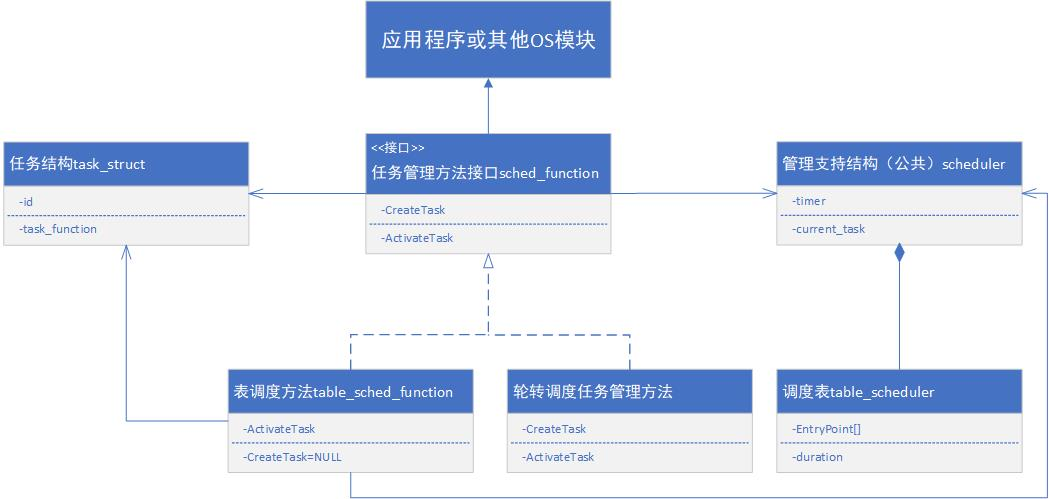
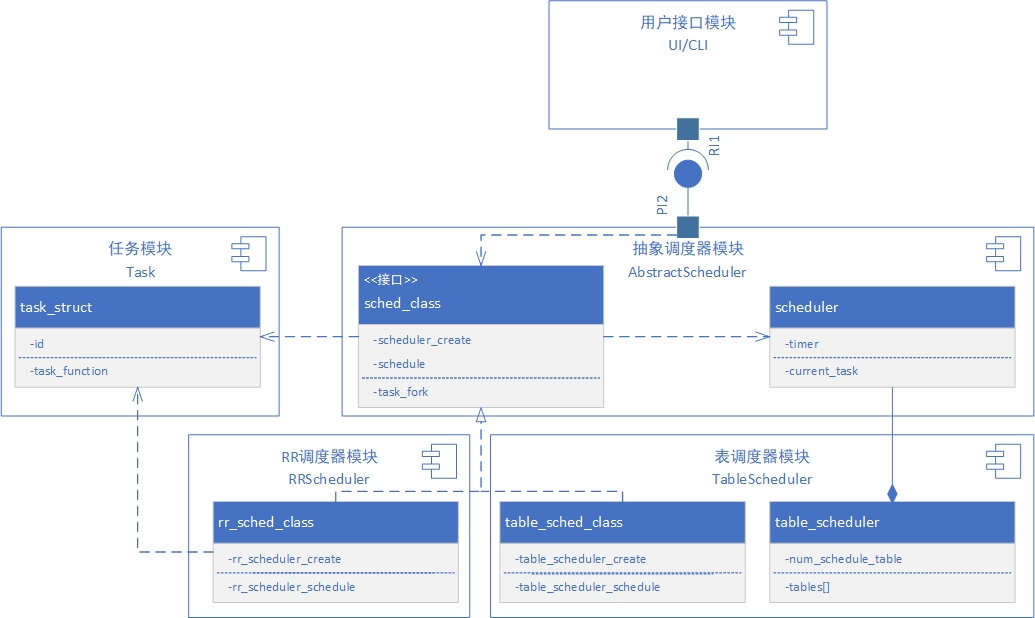
[why] 1. update arch.md       2. add design.md [who] huangyizhi

diff --git a/OS_evolution/Task Schedule/docs/architecture.md b/OS_evolution/Task Schedule/docs/architecture.md
@@ -1,84 +1,55 @@
-### 软件架构设计
-本项目围绕 **AUTOSAR Classic Platform 的任务调度模型** 构建，用于仿真AUTOSAR Classic Platform中任务调度和任务执行流程。
+# 软件架构设计
 
-- 
+## Overview
+本项目围绕 **AUTOSAR Classic Platform 的任务调度模型** 构建，用于仿真AUTOSAR Classic Platform中任务调度和任务执行流程。项目采用模块化设计，其核心逻辑主要由四个关键模块组成：
 
-根据上述逻辑，本项采用模块化设计，其核心逻辑由四个关键模块组成：
+- ✅ 任务模块（Task）
+- ✅ 抽象调度器模块（Abstract Scheduler）
+- ✅ 表调度器模块（Table Scheduler）
+- ✅ 用户接口模块（User Interface）
 
-本小节将讨论任务管理的软件架构设计，它会基于现有AUTOSAR Classic Platform标准，但是，作为仿真器的核心组件，它必须面向通用OS进行扩展设计。首先，对其关键组件的功能以及它们之间的关系进行设计：
+## 模块简介
 
-- 任务管理方法（调度方法）：主要实现任务活动、任务状态、优先级、资源、中断、错误等执行行为。这些行为会根据具体操作系统遵循的规则、所选择的调度策略发生变化。例如，AUTOSAR OS要求设计时静态配置任务，不会在运行时创建新任务，它不会直接向用户或者其他操作系统模块提供诸如fork或者CreateTask类似的函数或方法。相反，很多通用操作系统或者支持动态创建任务的RTOS均提供这类方法。另外，不同调度策略对调度函数的具体函数也不尽相同。因此，需要划分任务管理方法中的不变量和变量，以应对不同更为广泛的情况和需求变化。具体划分为：
-  + 不变量：任务管理方法向外提供的基本功能是不变的。尽管不同OS所支持的任务行为种类不尽相同（或向外的函数名不同）或者底层实现方法不同，但是这些行为通常是互为子集关系且大部分向外部提供的功能表现是基本一致的。
-  + 变量：具体功能数量和底层实现逻辑
-根据上述分析，可利用“接口隔离”原则，实现这些不变量与变量的分离：
-  + 抽象的任务管理接口：设计抽象接口，该接口是任务管理行为各行为的超集。接口用于用户和OS的外部调用。
-  + 具体的任务管理方法：根据自身OS、调度方法设计具体的任务管理方法，然后绑定给接口调用。
+### 1. 任务模块（Task）
 
-- 支持任务管理的结构（调度器结构）：主要为任务管理方法提供数据结构支持。该部分同样存在公共的不变量，例如调度器所依赖的时钟、调度器所在核心等。也同样存在变量，具体调度方法实现所用的数据结构，例如，表调度、FIFO、RR所使用的列表（或队列），完全公平调度用到的红黑树等。这里可以考虑利用组合或继承进行实现。
+* 描述任务的基本属性，如周期、偏移、类型（周期/单发）、优先级等
+* 支持任务调度状态更新（激活/运行/完成）
+* 可扩展为支持资源依赖、事件触发等高级模型
 
-- 管理对象（任务）：任务结构实际上也会根据OS的情况存在具体差异，但是对于设计模拟器来说是基本不变的，因此，这里不做过多抽象隔离设计。
+### 2. 抽象调度器模块（AbstractScheduler）
+抽象调度器模块用于处理任务管理中的不变量，一方面为上层的软件提供统一的调度方法接口定义，另一方面用于描述任务调度的行为。具体作用如下：
 
-总之，如图3所示，其基本关系可以确定为：
-- 具体任务管理方法与具体管理结构、管理对象对应，但依赖的是抽象。
-- 抽象任务管理方法与抽象管理结构、管理对象对应。
-- 外部调用抽象任务管理方法
+* 作为所有调度器的基类，定义统一的调度接口
+* 提供调度器生命周期管理（初始化、启动、终止）
+* 保持调度器（不同调度算法的调度器）之间的可替换性
+
+### 3. 表调度器模块（TableScheduler）
+符合AUTOSAR Classic 平台规定的调度器实现，具体特性为：
+
+* 实现时间驱动调度（Time-Triggered Scheduling）
+
+* 支持多个调度表的管理、切换与执行
+
+* 每个调度表包括一系列任务启动事件（时间戳 -> 任务）
+
+###  4. 用户接口模块（UI/CLI）
+仿真器的用户接口，提供UI界面或者CLI方式启动仿真，具体特性为：
+
+* 加载任务与调度表配置（如 ARXML或其他格式）
+* 提供命令行入口或图形界面入口
+* 控制调度过程（如执行步进、重置仿真、导出调度结果）
+* 提供调度结果的图形和数据输出
+* 提供对输出结果的分析
+
+## 模块间的交互示意
+图1展示了软件模块之间的关系。
+
+* 用户接口模块：仅与抽象调度器模块交互。通过调用由抽象调度器模块提供的接口实现用户仿真功能。
+* 抽象调度器模块：向上为用户接口模块提供任务管理相关接口，向下定义调度器属性和行为的通用抽象。采用调度器和调度方法的分离设计，其中调度器类定义描述通用调度器的属性，调度方法类定义统一任务管理行为和接口。调度方法会依赖（Dependency）于调度器类。
+* 具体调度器模块：调度器的具体实现。具体调度器类定义相关调度器实现的属性描述，除去定义特殊属性还会通过组合（Composition）抽象调度器获取通用属性。具体调度方法类用于实现具体调度器的相关方法，是通用调度器方法的具体实现（implements）。具体调度方法通过抽象调度方法调用具体调度器类。
+* 任务模块：主要定义任务的属性和任务执行相关的方法。其中描述任务的task_struct会被调度方法类所依赖（Dependency）。
 
 <div align="center">
-    <img src="img/taskmanagement_software_arch.jpg" alt="任务管理软件结构" width="100%"/>
-    <div>图3 任务管理软件架构</div>
+    <img src="../img/taskmanagement_software_arch.jpg" alt="任务管理软件结构" width="100%"/>
+    <div>图1 软件模块以及模块内部关键类之间的关系</div>
 </div>
-
-大致伪代码实现如下：
-
-```
-// sched.c/h
-struct task_struct {
-  int id;
-  void (*task_function)(void);
-  ...
-};
-
-
-struct scheduler {
-  int timefd;
-  struct task_struct *current_task;
-  ...
-};
-
-struct sched_function {
-  void (*create_task)(struct task_struct *task);
-  void (*activate_task)(struct scheduler *sched);
-  ...
-};
-
-scheduler *global_scheduler;
-
-// table_scheduler.c/h
-
-struct table_scheduler {
-  struct scheduler sched;
-  int duration;
-  struct EntryPoint ep[MAX_NUM_EP];
-  ...
-};
-
-struct table_scheduler scheduler;
-
-void regist_scheduler()
-{
-  global_scheduler = &scheduler.sched;
-}
-
-void table_activate_task(struct scheduler *sched) {
-  table_scheduler *table_sched = container_of(sched, struct scheduler, sched);
-  ...
-  table_activate(table_sched);
-}
-
-struct sched_function table_sched_function = {
-  .activate_task = table_activate_task,
-  .create_task = NULL,
-  ...
-}
-
-```

diff --git a/OS_evolution/Task Schedule/docs/designed.md b/OS_evolution/Task Schedule/docs/designed.md
@@ -1,0 +1,78 @@
+
+本小节将讨论任务管理的软件架构设计，它会基于现有AUTOSAR Classic Platform标准，但是，作为仿真器的核心组件，它必须面向通用OS进行扩展设计。首先，对其关键组件的功能以及它们之间的关系进行设计：
+
+- 任务管理方法（调度方法）：主要实现任务活动、任务状态、优先级、资源、中断、错误等执行行为。这些行为会根据具体操作系统遵循的规则、所选择的调度策略发生变化。例如，AUTOSAR OS要求设计时静态配置任务，不会在运行时创建新任务，它不会直接向用户或者其他操作系统模块提供诸如fork或者CreateTask类似的函数或方法。相反，很多通用操作系统或者支持动态创建任务的RTOS均提供这类方法。另外，不同调度策略对调度函数的具体函数也不尽相同。因此，需要划分任务管理方法中的不变量和变量，以应对不同更为广泛的情况和需求变化。具体划分为：
+  + 不变量：任务管理方法向外提供的基本功能是不变的。尽管不同OS所支持的任务行为种类不尽相同（或向外的函数名不同）或者底层实现方法不同，但是这些行为通常是互为子集关系且大部分向外部提供的功能表现是基本一致的。
+  + 变量：具体功能数量和底层实现逻辑
+根据上述分析，可利用“接口隔离”原则，实现这些不变量与变量的分离：
+  + 抽象的任务管理接口：设计抽象接口，该接口是任务管理行为各行为的超集。接口用于用户和OS的外部调用。
+  + 具体的任务管理方法：根据自身OS、调度方法设计具体的任务管理方法，然后绑定给接口调用。
+
+- 支持任务管理的结构（调度器结构）：主要为任务管理方法提供数据结构支持。该部分同样存在公共的不变量，例如调度器所依赖的时钟、调度器所在核心等。也同样存在变量，具体调度方法实现所用的数据结构，例如，表调度、FIFO、RR所使用的列表（或队列），完全公平调度用到的红黑树等。这里可以考虑利用组合或继承进行实现。
+
+- 管理对象（任务）：任务结构实际上也会根据OS的情况存在具体差异，但是对于设计模拟器来说是基本不变的，因此，这里不做过多抽象隔离设计。
+
+总之，如图3所示，其基本关系可以确定为：
+- 具体任务管理方法与具体管理结构、管理对象对应，但依赖的是抽象。
+- 抽象任务管理方法与抽象管理结构、管理对象对应。
+- 外部调用抽象任务管理方法
+
+<div align="center">
+    <img src="img/taskmanagement_software_arch.jpg" alt="任务管理软件结构" width="100%"/>
+    <div>图3 任务管理软件架构</div>
+</div>
+
+大致伪代码实现如下：
+
+```
+// sched.c/h
+struct task_struct {
+  int id;
+  void (*task_function)(void);
+  ...
+};
+
+
+struct scheduler {
+  int timefd;
+  struct task_struct *current_task;
+  ...
+};
+
+struct sched_function {
+  void (*create_task)(struct task_struct *task);
+  void (*activate_task)(struct scheduler *sched);
+  ...
+};
+
+scheduler *global_scheduler;
+
+// table_scheduler.c/h
+
+struct table_scheduler {
+  struct scheduler sched;
+  int duration;
+  struct EntryPoint ep[MAX_NUM_EP];
+  ...
+};
+
+struct table_scheduler scheduler;
+
+void regist_scheduler()
+{
+  global_scheduler = &scheduler.sched;
+}
+
+void table_activate_task(struct scheduler *sched) {
+  table_scheduler *table_sched = container_of(sched, struct scheduler, sched);
+  ...
+  table_activate(table_sched);
+}
+
+struct sched_function table_sched_function = {
+  .activate_task = table_activate_task,
+  .create_task = NULL,
+  ...
+}
+
+```
